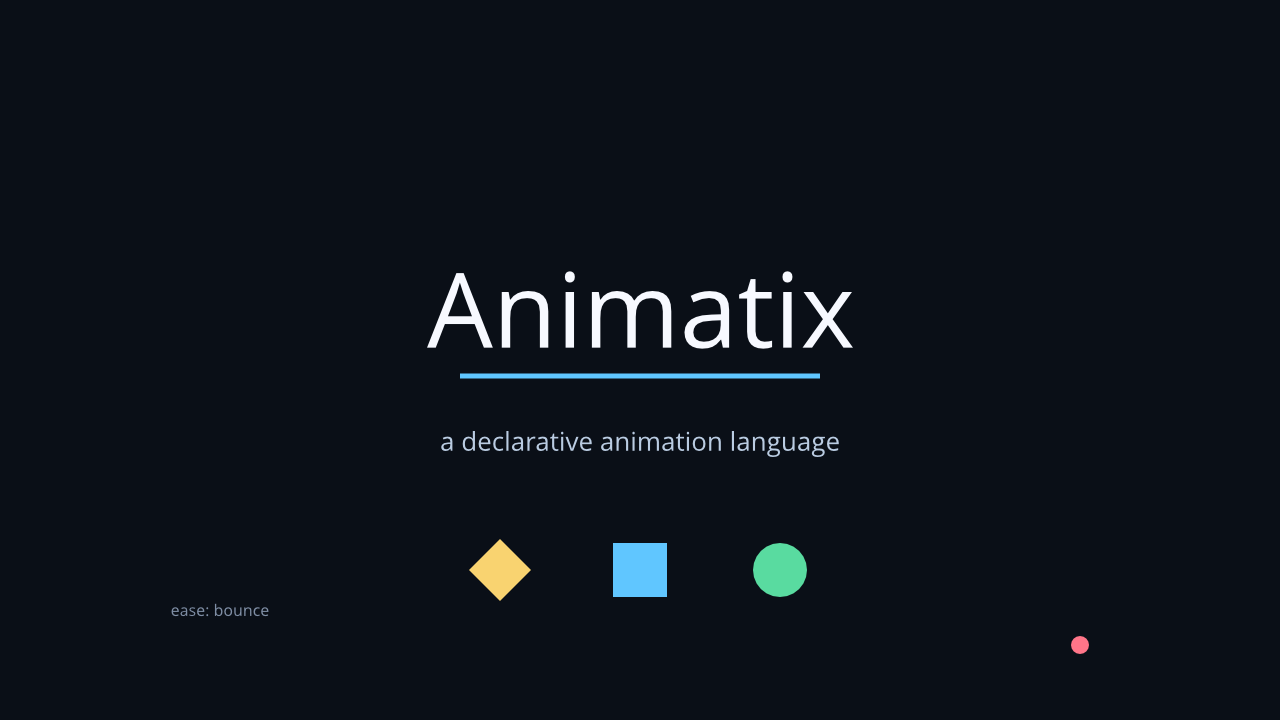
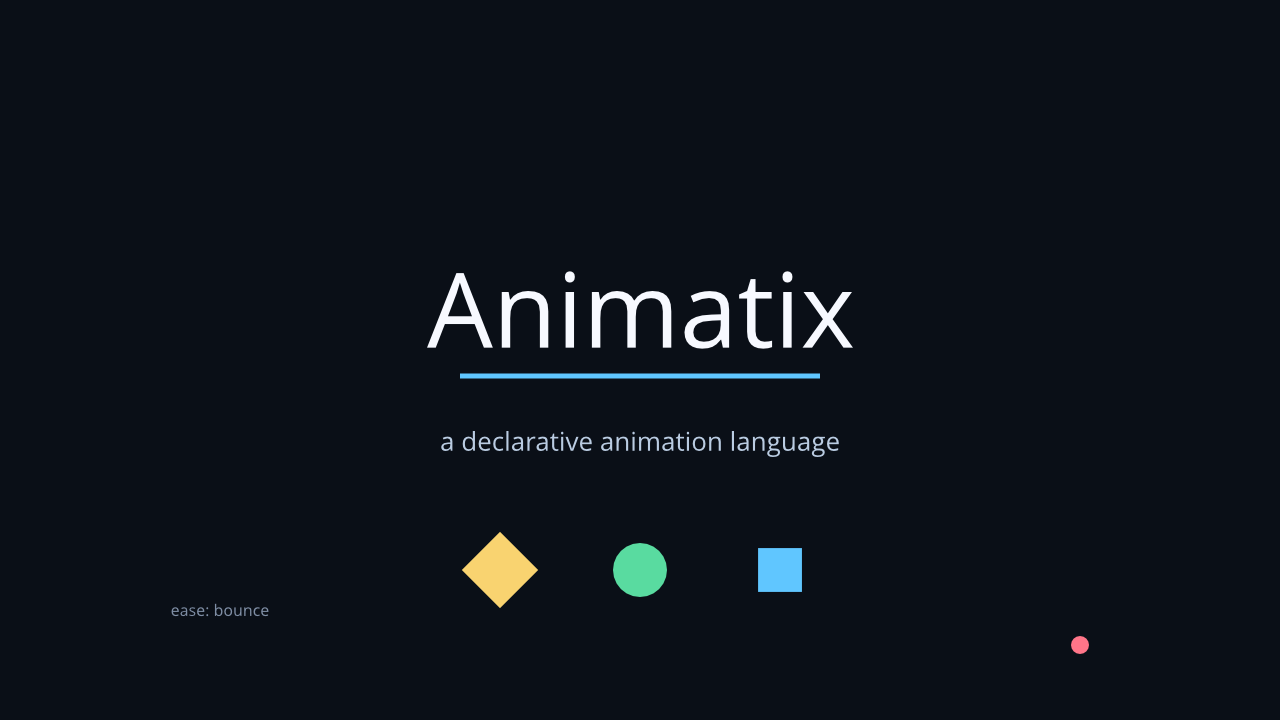
fix(animatix): keep embeds alive across DOM moves and rework the hero trio choreography

diff --git a/web/index.html b/web/index.html
@@ -38,7 +38,7 @@
           <span class="cap"><b>This plate is not a video.</b> It is
             <a href="./scenes/hero.amx">a .amx scene file</a> the engine compiles
             in your browser (WebGPU) as you read — title type, a drawn
-            underline, three shapes morphing, one ball riding
+            underline, three shapes trading corners, one ball riding
             <code class="inline">ease: bounce</code>.</span>
           <a class="src" href="./scenes/hero.amx">scenes/hero.amx ↗</a>
         </figcaption>

diff --git a/docs/roadmap.md b/docs/roadmap.md
@@ -121,6 +121,7 @@ Done (recorded so they are not re-litigated):
 | Feature | Notes | Status |
 |---|---|---|
 | `Code` custom highlighting theme | Token colours now follow the active colorscheme via a role→named-token palette (`ResolvedColorscheme::highlight_palette`, resolved at build). A fully custom palette (arbitrary per-role colours, or a user-supplied `.tmTheme`) is not exposed as an authoring surface; deferred until a real content need. | Not started |
+| Re-declaration morphs sharing one keyframe stamp | When two actor re-declarations share a single `#t` stamp, the actors render their **target** geometry on every frame before the morph starts (an `Ellipse`→`Rect` re-declaration shows a square on pre-morph frames; a size-less `Polygon` leaked as a default-size `Ellipse`). One re-declaration per stamp is safe — `web/tour/scenes/morph.amx` exercises the full sequence leak-free. Found while frame-auditing `web/scenes/hero.amx` (probes in the 2026-10-01 site session); the hero now choreographs its trio with rotations/resizes instead. Fix direction: a morph track's pre-start evaluation must hold the *previous* declaration, not the target. | Not started |
 
 ## Dependency & Verification Constraints
 
